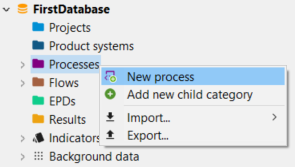
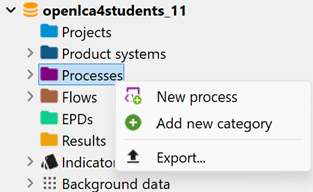
new picture for right-click ok the model graph, and minor updates

Changed region(s): [[0.0, 0.0, 1.0, 1.0], [0.0915, 0.5689, 0.3051, 0.6587]]

diff --git a/src/prod_sys/model_graph.md b/src/prod_sys/model_graph.md
@@ -134,6 +134,8 @@ By right-clicking on a process in the model graph, you find the following additi
 
 - **Open in editor: Process**: This option will lead you to the general information tab of the selected process.
 
+- _**New!**_ **Set analysis group**: This new function of openLCA 2.4 allows you to conveniently categorize your LCA product system results into various categories, such as the EN15804+A2 modules. Instead of setting up specific processes, you can easily group results. Check the [dedicated section](../res_analysis/res_analysis_groups.md) for details.
+
 - **Delete**: Removes not only the selected process but all the processes that are linked only to it. Here is an example of deleting the process "Printed wiring board". 
 
     ![](../media/model_graph_delte_before.png)
@@ -147,31 +149,31 @@ By right-clicking on a process in the model graph, you find the following additi
     ![](../media/remove_supply_chain.png)
     <br>_Deleting or hiding the supply chain_
 
-_**Note:**_ Deleting the supply chain when removing the connection of a process, removes it from the product system entirely. The "Hide" option, otherwise, lets you retain the supply chain. This is important when your supply chain has multiple connections within your product system. For instance, if you delete the link to "Electricity, at grid, CN," it will also disappear from other processes using the same electricity source. Therefore, we recommend using "hide" if you're unsure about the supply chain within the whole system (otherwise check with [Usage](../cheat/usage.md)).
+    _**Note:**_ Deleting the supply chain when removing the connection of a process, removes it from the product system entirely. The "Hide" option, otherwise, lets you retain the supply chain. This is important when your supply chain has multiple connections within your product system. For instance, if you delete the link to "Electricity, at grid, CN," it will also disappear from other processes using the same electricity source. Therefore, we recommend using "hide" if you're unsure about the supply chain within the whole system (otherwise check with [Usage](../cheat/usage.md)).
 
 
-![](../media/model_graph_remove_connection_before.png)
-<br>_Model graph - Example of removing a connection (before)_
+    ![](../media/model_graph_remove_connection_before.png)
+    <br>_Model graph - Example of removing a connection (before)_
 
-![](../media/model_graph_remove_connection_after.png)
-<br>_Model graph - Example of removing a connection (after)_
+    ![](../media/model_graph_remove_connection_after.png)
+    <br>_Model graph - Example of removing a connection (after)_
 
-To add a provider to a flow that is missing one, right-click on the respective flow and select "Search providers".
+    To add a provider to a flow that is missing one, right-click on the respective flow and select "Search providers".
 
-![](../media/model_graph_search_providers.png)
-<br>_Model graph - Search providers_
+    ![](../media/model_graph_search_providers.png)
+    <br>_Model graph - Search providers_
 
-A pop-up window will appear with a list of all possible providers for that flow. You can select in the table which provider you would like to add to the model graph and check off "Connect" to automatically connect the process to the flow. Likewise, it is possible to search for recipients for specific outputs.
+    A pop-up window will appear with a list of all possible providers for that flow. You can select in the table which provider you would like to add to the model graph and check off "Connect" to automatically connect the process to the flow. Likewise, it is possible to search for recipients for specific outputs.
 
-![](../media/model_graph_search_providers_connect.png)
-<br>_Model graph - Search providers - Connect_
+    ![](../media/model_graph_search_providers_connect.png)
+    <br>_Model graph - Search providers - Connect_
 
-**_Note_**: If you add processes with this function, the full supply chain will be NOT added. You have to manually add it afterwards, using the "Build flow supply chain" function (see below).
+    **_Note_**: If you add processes with this function, the full supply chain will be NOT added. You have to manually add it afterwards, using the "Build flow supply chain" function (see below).
 
-Otherwise, you can also draw connections by dragging from one flow to another flow! To do that, you need to have the respective processes expanded, then click on the provider flow and drag it to the receiver flow:
+    Otherwise, you can also draw connections by dragging from one flow to another flow! To do that, you need to have the respective processes expanded, then click on the provider flow and drag it to the receiver flow:
 
-![](../media/drag_drop_model.png)
-<br>_Manually connection flows_
+    ![](../media/drag_drop_model.png)
+    <br>_Manually connection flows_
 
 - **Build supply chain**: Allows you to connect processes in the model graph. You can then select whether to build the complete supply chain for the process or just the next tier. Next tier means adding one provider without its supply chain.
 

diff --git a/src/updates.md b/src/updates.md
@@ -2,18 +2,20 @@
 
 In this section you can check what the major manual updates were about and when they were released.
 
-## x.01.2025
+## 31.01.2025
 
 - Updated/added sections affected by the release of openLCA new version 2.4:
-    - [Databases](./databases/README.md)
     - [Analysis groups](./res_analysis/res_analysis_groups.md) newly added
-    - [Check Ebyan files]
+    - [Databases](./databases/README.md) updated
+    - [Model graph](./prod_sys/model_graph.md)
 - Chapters restructured:
-    - [Processes](./processes/README.md) (also updated)
+    - [Running openLCA for the first time](./running_olca/README.md)
+    - [Processes](./processes/README.md)
     - [Calculation and Result Analysis](./res_analysis/README.md)
 - The chapters in the sidebar are now collapsed bu default at the first level when opening the manual. They can be expanded manually or browsed in the new TOC (see point below).
 - Added [Table of content](./toc.md)
 - [Latest manual updates](./updates.md) section can now be fount a the bottom of the of the manual. 
+- Minor updates
 
 ## 18.12.2014
 

diff --git a/src/epds/creating_epd_olca.md b/src/epds/creating_epd_olca.md
@@ -2,7 +2,7 @@
 
 <div style='text-align: justify;'>
 
-An EPD structure can be created in order to store the information using the official nomenclature of the life cycle stages.
+An EPD structure can be created in order to store the information using the official nomenclature of the life cycle stages. In openLCA 2.4 there are two ways to create an EPD, the first way is explained below in this section, while the the second way is described in the 
 
 1.	To create a new EPD you can now right-click on the folder "EPDs" and select "New EPD". In the window that opens, please name the EPD.
 
